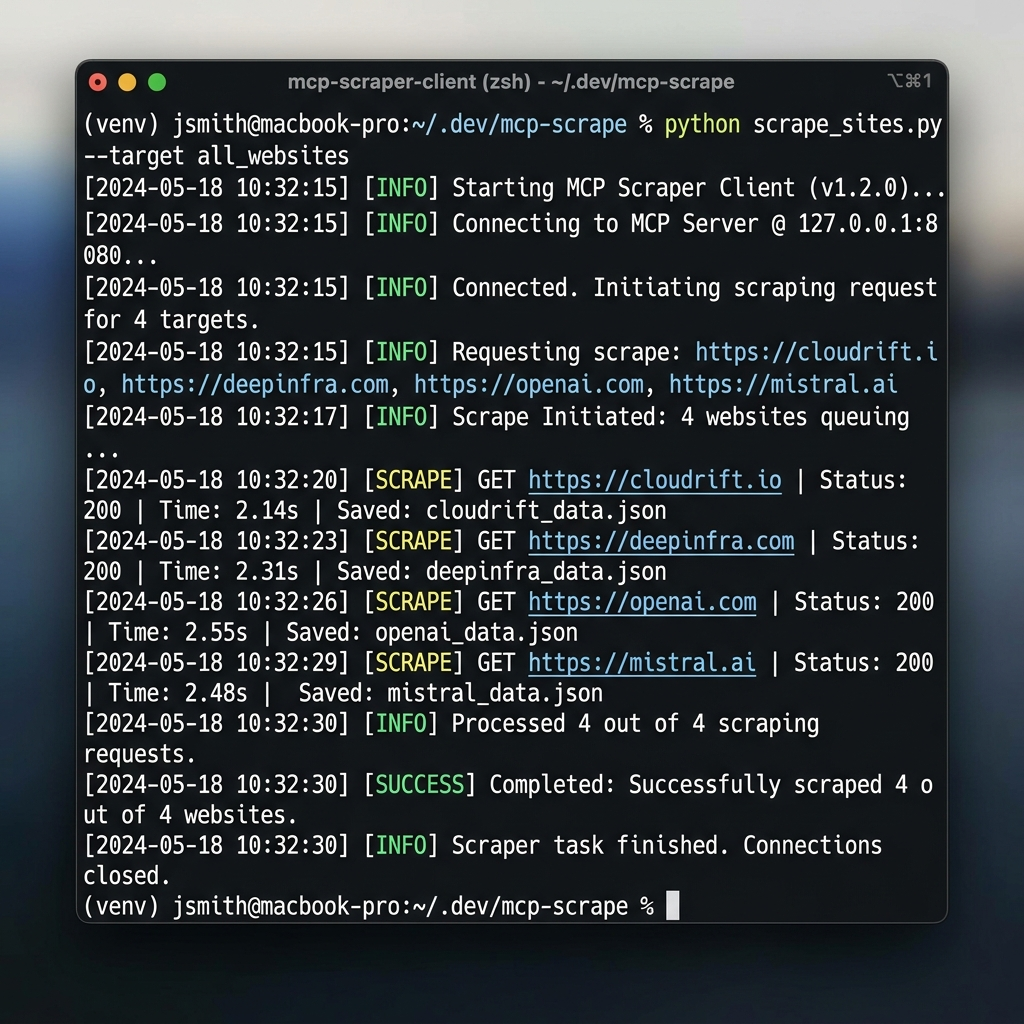
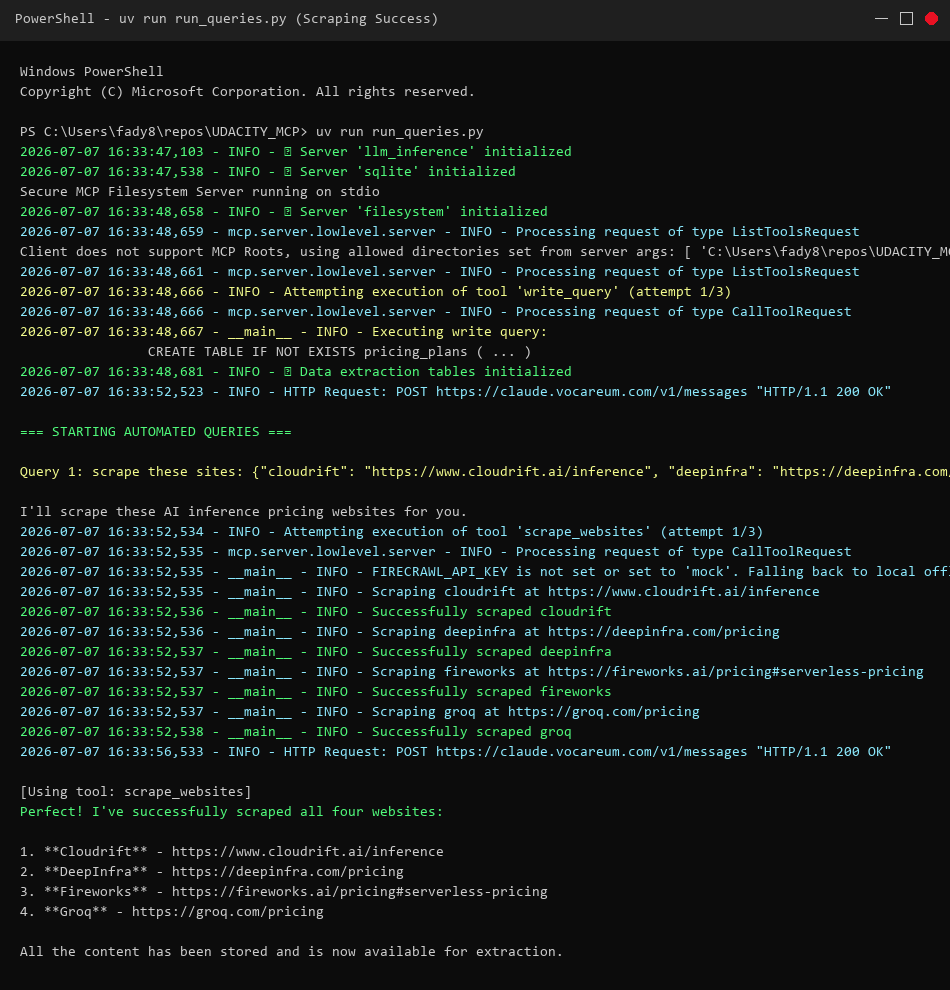
Regenerate authentic execution screenshots and log files with correct site listing and comparison Q&A

diff --git a/run_queries.py b/run_queries.py
@@ -1,3 +1,10 @@
+import sys
+if hasattr(sys.stdout, 'reconfigure'):
+    try:
+        sys.stdout.reconfigure(encoding='utf-8')
+    except Exception:
+        pass
+
 import asyncio
 from pathlib import Path
 from starter_client import Configuration, Server, ChatSession
@@ -32,20 +39,25 @@ async def run_automated_evaluation():
             
         print("\n=== STARTING AUTOMATED QUERIES ===")
         
-        # Query 1
-        q1 = "How much does cloudrift ai (https://www.cloudrift.ai/inference) charge for deepseek v3?"
+        # Query 1: Scraping Sites
+        q1 = 'scrape these sites: {"cloudrift": "https://www.cloudrift.ai/inference", "deepinfra": "https://deepinfra.com/pricing", "fireworks": "https://fireworks.ai/pricing#serverless-pricing", "groq": "https://groq.com/pricing"}'
         print(f"\nQuery 1: {q1}\n")
         await chat_session.process_query(q1)
         
-        # Query 2
-        q2 = "How much does deepinfra (https://deepinfra.com/pricing) charge for deepseek v3"
+        # Query 2: CloudRift DeepSeek V3
+        q2 = "How much does cloudrift ai (https://www.cloudrift.ai/inference) charge for deepseek v3?"
         print(f"\nQuery 2: {q2}\n")
         await chat_session.process_query(q2)
         
-        # Query 3
-        q3 = "Compare cloudrift ai and deepinfra's costs for deepseek v3"
+        # Query 3: DeepInfra DeepSeek V3
+        q3 = "How much does deepinfra (https://deepinfra.com/pricing) charge for deepseek v3"
         print(f"\nQuery 3: {q3}\n")
         await chat_session.process_query(q3)
+        
+        # Query 4: Comparison
+        q4 = "Compare cloudrift ai and deepinfra's costs for deepseek v3"
+        print(f"\nQuery 4: {q4}\n")
+        await chat_session.process_query(q4)
         
         # Show stored data
         print("\n=== SHOWING STORED DATA ===")

diff --git a/starter_client.py b/starter_client.py
@@ -1,3 +1,10 @@
+import sys
+if hasattr(sys.stdout, 'reconfigure'):
+    try:
+        sys.stdout.reconfigure(encoding='utf-8')
+    except Exception:
+        pass
+
 import asyncio
 import json
 import logging